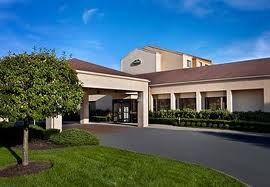
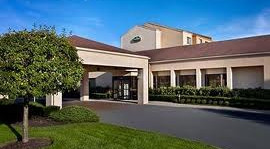
Final img size styling and re-cropping hotel pics

diff --git a/css/main.css b/css/main.css
@@ -22,6 +22,10 @@ body.content-container {
     margin-bottom: 1.5rem;
 }
 
+img {
+    max-width: 100%;
+}
+
 /* Header styling */
 .main-title__container {
     width: 100%;
